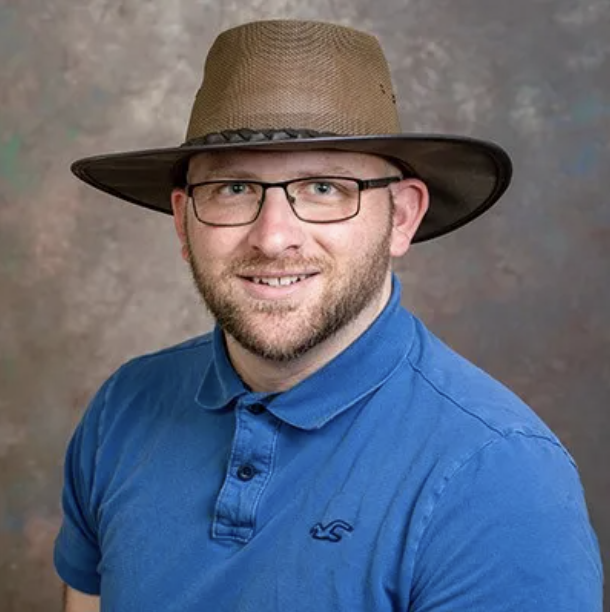
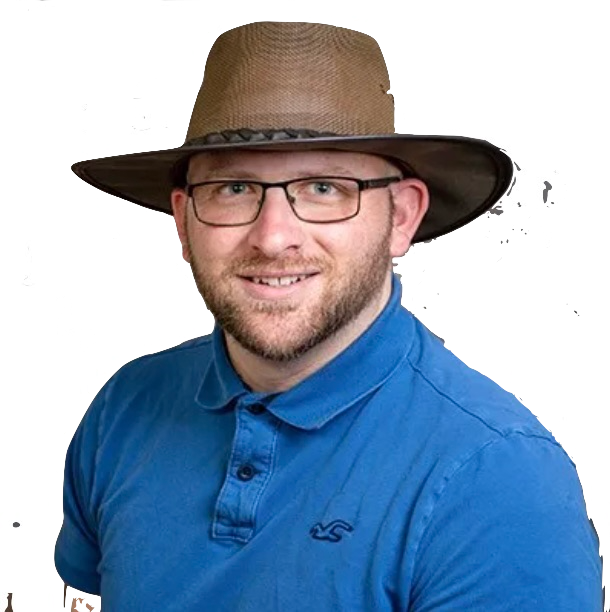
Building easter egg not done

diff --git a/src/Pages/BasicQuestionsPage/BasicQuestionsPage.tsx b/src/Pages/BasicQuestionsPage/BasicQuestionsPage.tsx
@@ -1,7 +1,8 @@
 import React from "react";
 import Card from "../../Components/Card/Card";
 import VideoCard from "../../Components/VideoCard/VideoCard";
-
+import John from "../../assets/John.png";
+import "./BasicQuestionPage.css";
 const BasicQuestionsPage = () => {
   const subwaySurfersVideoSrc = "subwaysurfers.mp4"; // Keep the video source link
 
@@ -14,9 +15,13 @@ const BasicQuestionsPage = () => {
         <div className="relative flex justify-center pt-5">
           <Card questions={["bq1?", "bq2?", "bq3?", "bq4?", "bq5?"]} />
         </div>
+
         <div className="float top-1/2 transform -translate-y-1/2 pl-10 right-10">
           <VideoCard videoSrc={subwaySurfersVideoSrc} />
         </div>
+      </div>
+      <div className="absolute bottom-0 right-0">
+        <img src={John} alt="John" className="john-image" />
       </div>
     </>
   );

diff --git a/src/Components/VideoCard/VideoCard.tsx b/src/Components/VideoCard/VideoCard.tsx
@@ -1,12 +1,13 @@
 import React, { useState } from "react";
 import ReactPlayer from "react-player";
 import "./VideoCard.css";
+
 interface Props {
   videoSrc: string;
 }
 
 const VideoCard: React.FC<Props> = ({ videoSrc }) => {
-  const [showVideo, setShowVideo] = useState(true);
+  const [showVideo, setShowVideo] = useState(false); // Set initial state to false
 
   const toggleVideo = () => {
     setShowVideo(!showVideo);
@@ -25,6 +26,8 @@ const VideoCard: React.FC<Props> = ({ videoSrc }) => {
       )}
       <div className="container-checked pt-2">
         <h1 className="pl-3 pr-4">Entertainment Mode</h1>
+
+        {/* Code for toggle button */}
         <input
           type="checkbox"
           checked={showVideo}

diff --git a/src/Pages/BasicQuestionsPage/BasicQuestionPage.css b/src/Pages/BasicQuestionsPage/BasicQuestionPage.css
@@ -1,0 +1,13 @@
+/* Assuming the class name for the image is "john-image" */
+.john-image {
+    width: 50%;
+    height: auto; /* Maintain aspect ratio */
+    margin-right: 20px; /* Adjust the margin-right as needed */
+    transition: transform 0.5s ease; /* Apply transition effect to the transform property */
+    transform: translateY(310px); /* Translate the image downwards initially */
+  }
+  
+  .john-image:hover {
+    transform: translateY(100px); /* Translate the image upwards on hover */
+  }
+  
